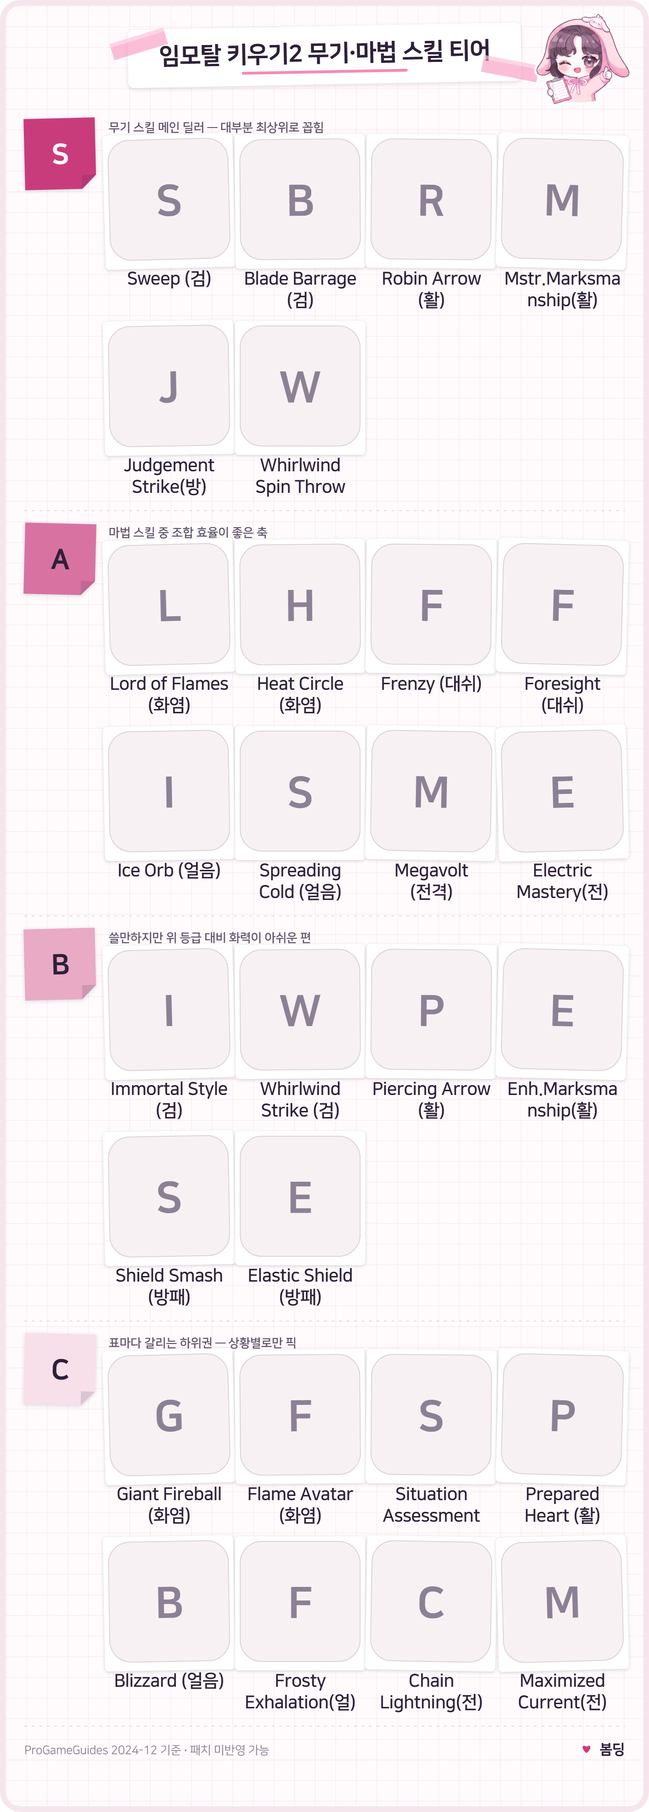
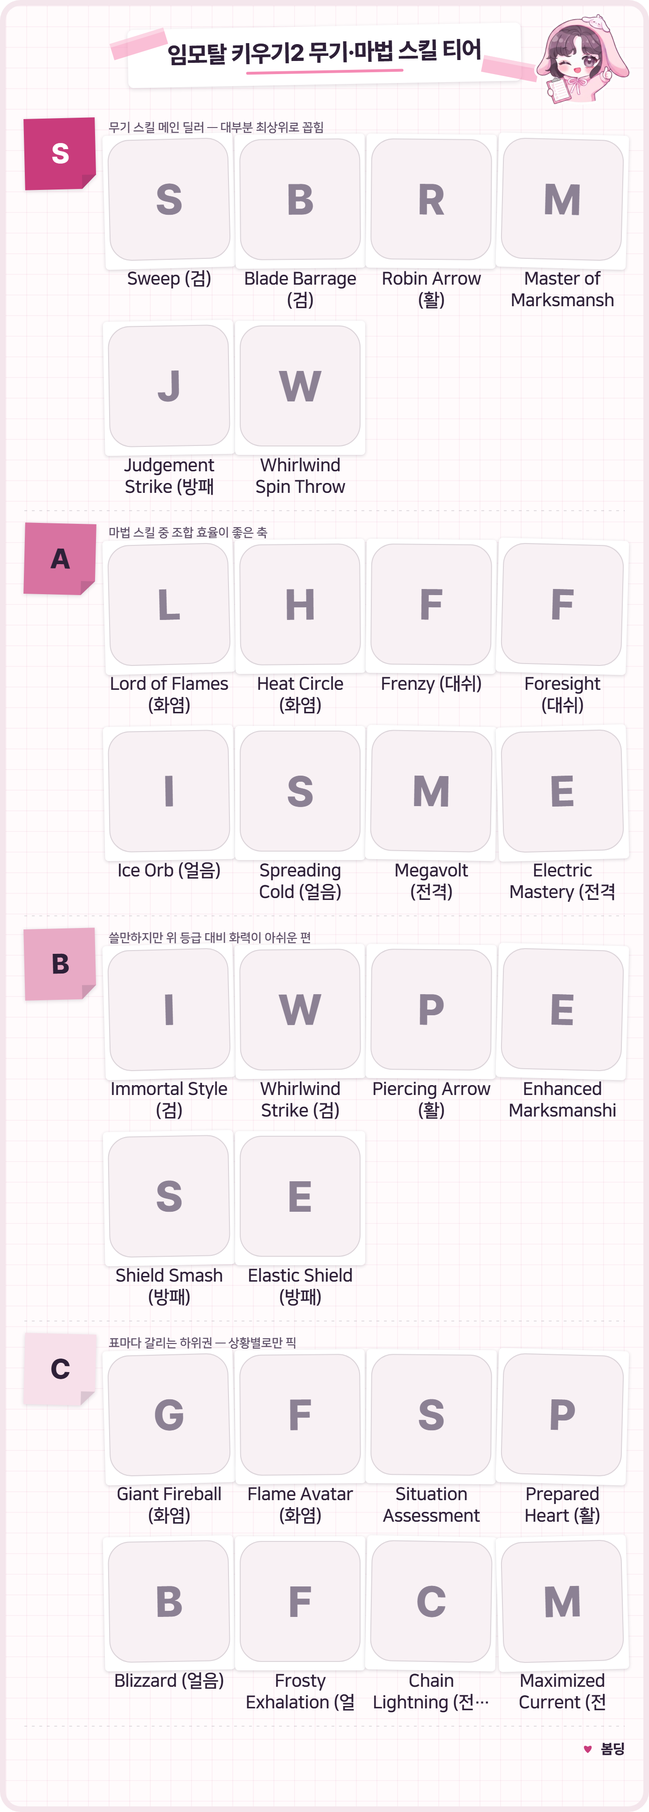
W0 AI 티 문구 치환(10-02 검토 반영): 모바일RPG자동사냥게임 임모탈키우기2 티어정리 무기 스킬 부적 순위, 초반 추천

diff --git a/봄딩/임모탈 키우기2/티어 정리/봄딩_미리보기_임모탈 키우기2 티어 정리.html b/봄딩/임모탈 키우기2/티어 정리/봄딩_미리보기_임모탈 키우기2 티어 정리.html
@@ -75,21 +75,11 @@
     <h1 class="title">모바일RPG자동사냥게임 임모탈키우기2 티어정리 무기 스킬 부적 순위, 초반 추천세팅까지</h1>
     <div class="meta"><span class="author">봄딩</span><span>2026.09.27</span><span>· 게임</span></div>
 
-    <p>예전에 스토리 한 번 쭉 밀고 잠깐 손 놓았던 <b>임모탈 키우기2(이모탈 라이징 2)</b>를 최근에 다시 켜봤는데요, 2025년 8월 신규 서버 오픈 이후로도 2026년 8월까지 매달 업데이트가 꾸준히 올라왔어요. 그래서 오늘은 무기·스킬·부적(유물) 등급까지 한번에 정리해보려고 하는데, 검색하다 보면 옛날 정보나 다른 시리즈 정보가 섞여서 나올 때가 있어서 이번 글은 정식 출시된 2편 기준으로만 걸러서 담았어요.</p>
-    <p><b>결론부터 말씀드리면, 무기는 활 계열이 잡몹전이랑 보스전 모두 강세라는 얘기가 제일 많고, 스킬은 검·활·방패 쪽 S급 위주로 트리를 짜는 게 초반 효율이 좋다고 봐요.</b> 다만 이 게임은 2026년 8월까지 매달 패치가 도는 라이브 서비스라 <b>티어가 한 번 굳으면 끝이 아니라 계속 흔들리는 편</b>이라, 아래 등급표는 "지금 기준으로 참고만" 하시는 게 맞아요.</p>
+    <p>임모탈 키우기2(이모탈 라이징 2), 다시 해볼까 고민하시는 분들 많으시죠? 2025년 8월 신규 서버 오픈 이후로도 2026년 8월까지 매달 업데이트가 꾸준히 올라왔어요. 그래서 오늘은 무기·스킬·부적(유물) 등급까지 한번에 정리해보려고 하는데, 검색하면 1편 정보가 섞여 나와서 헷갈리기 쉬운데, 이 글은 전부 2편 얘기예요.</p>
+    <p><b>결론부터 말씀드리면, 무기는 활 계열이 잡몹전이랑 보스전 모두 강세라는 얘기가 제일 많고, 스킬은 검·활·방패 쪽 S급 위주로 트리를 짜는 게 초반 효율이 좋다고 봐요.</b> 다만 이 게임은 패치가 자주 올라오는 라이브 서비스라 <b>티어가 한 번 굳으면 끝이 아니라 계속 흔들리는 편</b>이라, 아래 등급표는 "지금 기준으로 참고만" 하시는 게 맞아요.</p>
 
-    <h2 class="sub">임모탈 키우기2 티어, 뭘 기준으로 나눴을까요</h2>
-    <p><b>이 글의 등급은 해외 공략 사이트의 스킬 분석 자료와 국내 이용자들이 남긴 실사용 후기를 교차로 참고해서 나눈 거예요.</b> 이 자료는 이렇게 확인했어요 — 해외 쪽은 ProGameGuides의 Best Skills Tier List, 국내 쪽은 네이버 공식 라운지 이용자 글을 봤어요. 공식적으로 발표된 등급표는 아니고, 게임 자체가 무기 4종에 마법 4종을 섞어 "1,000만 개 이상의 조합"이 나온다고 홍보할 만큼 경우의 수가 워낙 많다 보니, 커뮤니티마다 순위가 살짝씩 갈리는 편인데요. 제가 참고한 ProGameGuides 자료는 지금 기준으로는 <b>약 1년 9개월 전(2024년 12월)</b>에 나온 자료라, 그사이 공식 라운지 공지만 봐도 업데이트가 여러 차례 있었으니 일부는 지금이랑 다를 수 있어요. 그래서 아래 등급은 "무조건 이대로 가라"보다는 "고민될 때 참고하는 기준선" 정도로 봐주시면 좋겠어요.</p>
-
-    <h2 class="sub">무기는 뭐가 제일 쓸 만할까요</h2>
-    <p><b>무기는 활이 잡몹전이랑 보스전 모두에서 꾸준히 강하다는 평이 제일 많아요.</b> 임모탈 키우기2는 공식 한국어 사이트 기준으로 무기 4종을 지원하는데,</p>
-    <ul>
-      <li>한손검</li>
-      <li>활</li>
-      <li>방패</li>
-      <li>창</li>
-    </ul>
-    <p>이렇게 네 종류예요. 다만 영문 공식 문서 쪽에는 창이 빠지고 검·활·방패 3종만 나와 있어서, 창이 나중에 추가된 무기인지 지역마다 표기가 다른 건지는 저도 확실하게는 못 찾았어요. 활은 전격(Lightning) 속성으로 세팅하면 공격력을 최우선으로 밀고 그다음 무기스킬피해·치명타피해를 챙기는 조합이 2025년 초 해외 커뮤니티 기준으로 많이 언급됐어요. 검 쪽에서는 전격+얼음 조합 얘기도 있었어요.</p>
+            <h2 class="sub">무기는 뭐가 제일 쓸 만할까요</h2>
+    <p><b>무기는 활이 잡몹전이랑 보스전 모두에서 꾸준히 강하다는 평이 제일 많아요.</b> 임모탈 키우기2 무기는 한손검, 활, 방패, 창 이렇게 네 종류예요. 활은 전격(Lightning) 속성으로 맞추고 공격력 → 무기스킬피해 → 치명타피해 순으로 챙기는 세팅이 해외 유저들 사이에서 한동안 많이 쓰였어요. 검 쪽에서는 전격+얼음 조합 얘기도 있었어요.</p>
     <!-- 이미지 이유: 무기 다양성(창) 실물 확인용 / 출처: 구글플레이 스토어 / 분류: A형 -->
     <div class="imgwrap"><img src="img/weapon-spear.webp" alt="창을 든 불멸자 전투 장면" width="1052" height="592"></div>
     <p class="cap">한손검·활·방패·창, 4종 무기 중 창을 든 전투 장면이에요</p>
@@ -100,32 +90,31 @@
     <!-- 이미지 이유: 장비 종류·레벨 UI 실물 확인용 / 출처: 구글플레이 스토어 / 분류: A형 -->
 
     <h2 class="sub">스킬 등급표, S부터 C까지 정리해봤어요</h2>
-    <p><b>무기 스킬이 마법 스킬보다 전반적으로 강하다는 게 이번 등급표의 핵심이에요.</b> 스킬트리 자체가 워낙 방대해서 전부 외우긴 어렵지만, 검·활·방패의 주력 스킬 위주로 먼저 찍고 마법은 보조로 곁들이는 흐름이 초반엔 무난해요. 아래 표는 해외 공략 자료 기준이라 한국어 인게임 표기랑 정확히 안 맞을 수 있어서 영문명 기준으로 정리했어요.</p>
+<p>등급은 해외 공략 사이트 평가랑 국내 유저들 후기에서 많이 나오는 얘기를 모아서 나눠봤어요. 게임 자체가 무기 4종에 마법 4종을 섞어 "1,000만 개 이상의 조합"이 나온다고 홍보할 만큼 경우의 수가 워낙 많다 보니, 커뮤니티마다 순위가 살짝씩 갈리는 편이에요.</p>
+    <p><b>무기 스킬이 마법 스킬보다 전반적으로 강하다는 게 이번 등급표의 핵심이에요.</b> 스킬트리 자체가 워낙 방대해서 전부 외우긴 어렵지만, 검·활·방패의 주력 스킬 위주로 먼저 찍고 마법은 보조로 곁들이는 흐름이 초반엔 무난해요. 아래 표는 해외 공략 사이트 등급표라 스킬 이름이 영어로 적혀 있어요.</p>
     <div class="imgwrap"><img src="img/skilltree.webp" alt="SS등급 대쉬 스킬트리 화면" width="1052" height="592"></div>
     <p class="cap">다양한 조합으로 최강의 스킬트리를 만들 수 있어요. 화면엔 SS등급 '대쉬' 스킬이 장착돼 있네요.</p>
     <p class="src">이미지 출처: <a href="https://play.google.com/store/apps/details?id=com.badbeans.immortalrising2k" target="_blank">구글플레이 스토어(공식 스크린샷)</a></p>
     <!-- 이미지 이유: 1,000만 조합 스킬트리 실물 확인용 / 출처: 구글플레이 스토어 / 분류: A형 -->
     <div class="imgwrap"><img src="img/skill-tier.png" alt="임모탈 키우기2 무기·마법 스킬 S~C 등급 정리" width="1386" height="3864"></div>
-    <p class="cap">무기·마법 스킬 S~C 등급 정리 (ProGameGuides 2024.12 자료 기준 · 작성 시점 스냅샷). 표의 약칭은 Mstr.=Master of, Enh.=Enhanced 이고, Whirlwind Spin Throw는 방패·Situation Assessment는 활 스킬이에요.</p>
+    <p class="cap">무기·마법 스킬 S~C 등급 정리</p>
     <!-- 이미지 이유: 등급별 실제 스킬 목록 제공 / 출처: 자체 제작(도구함 티어표) / 분류: 자체제작 -->
 
     <h2 class="sub">부적(유물)은 등급이 어떻게 나뉘나요</h2>
-    <p><b>'유물'이 상위 분류고, 그 안에 부적이라는 이름이 붙는 개별 아이템이 있는 구조예요. 등급은 최소 B·S·SS 세 단계로 확인되는데, 이건 커뮤니티 글 기준으로 확인한 거예요.</b> 네이버 공식 라운지 공지에서도 "맹공의 부적"이나 "불멸의 부적"처럼 SS 등급 유물이 2025년 7~8월 공지에서 판매 상품으로 올라온 걸 확인했어요, 이용자들 사이에서는 강화 단위가 B·S급은 '성', SS급은 '강'으로 다르게 불리기도 하거든요. 다만 B급보다 아래 등급이 있는지, SS 위에 더 높은 등급이 있는지는 이번 조사로는 끝까지 확인이 안 됐어요.</p>
-    <div class="gap"><b>✍ 직접 조사·입력 필요</b> — 부적(유물) 스탯 우선순위(생명력·공격력 부적의 옵션 우선순위)와 등급 전체 스펙트럼(B급 아래·SS급 위 등급 존재 여부)<br>
-    확인 위치: 인게임 '유물' 메뉴 강화 화면 또는 관련 공략 커뮤니티 원문 · 확인되면 아래에 채워주세요.</div>
-    <div class="ss"><span class="ico">📷</span><span class="lbl">스샷: 유물(부적) 강화·합성 메뉴 화면 — 등급 B/S/SS 표기가 한 화면에 보이는 목록 뷰</span></div>
+    <p><b>'유물'이 상위 분류고, 그 안에 부적이라는 이름이 붙는 개별 아이템이 있는 구조예요. 등급은 지금까지 알려진 게 B·S·SS 세 단계예요.</b> '맹공의 부적'·'불멸의 부적' 같은 SS 등급 유물은 2025년 7~8월에 상점 판매 상품으로도 나왔었어요. 이용자들 사이에서는 강화 단위가 B·S급은 '성', SS급은 '강'으로 다르게 불리기도 하거든요. B급 아래나 SS 위 등급이 더 있는지는 아직 확실하지 않아요.</p>
+        <div class="ss"><span class="ico">📷</span><span class="lbl">스샷: 유물(부적) 강화·합성 메뉴 화면 — 등급 B/S/SS 표기가 한 화면에 보이는 목록 뷰</span></div>
     <div class="shoot">📸 직접 촬영 권장 — 인게임 '유물'(또는 '부적') 메뉴에 들어가 등급별 목록이 한 화면에 담기는 시점에 캡처해주세요.</div>
     <p class="cap">이 섹션의 부적 등급 체계(B/S/SS)를 실제 화면으로 뒷받침할 자리예요</p>
 
     <h2 class="sub">각성하면 뭐가 달라지나요</h2>
-    <p><b>각성은 '불멸자 성장' 화면에서 진행하는 승급 시스템으로, SS에서 SSS처럼 등급이 한 단계씩 올라가요.</b> 실제로 각성에 성공하면 공격력·체력 같은 스탯이 눈에 띄게 올라가는 걸 화면으로 확인했는데, 정확히 어떤 재료가 몇 개 필요한지 세부 조건까지는 확대해봐도 글자가 작아서 이번엔 다 읽지 못했어요. 성장·장비·각성 탭이 따로 나뉘어 있는 걸 보면 장비 강화나 캐릭터 성장이랑도 맞물려 있는 구조로 보이니, 한쪽만 붙잡지 말고 골고루 챙기시는 게 좋아요.</p>
+    <p><b>각성은 '불멸자 성장' 화면에서 진행하는 승급 시스템으로, SS에서 SSS처럼 등급이 한 단계씩 올라가요.</b> 각성에 성공하면 공격력·체력 같은 스탯이 눈에 띄게 오르는데, 필요한 재료나 개수 같은 세부 조건은 게임 안 각성 화면에서 한 번 확인해 보시는 게 좋아요. 성장·장비·각성 탭이 따로 나뉘어 있는 걸 보면 장비 강화나 캐릭터 성장이랑도 맞물려 있는 구조로 보이니, 한쪽만 붙잡지 말고 골고루 챙기시는 게 좋아요.</p>
     <!-- 이미지 이유: 진화(각성) 시스템의 실제 등급 승급 장면 / 출처: 구글플레이 스토어 / 분류: A형 -->
     <div class="imgwrap"><img src="img/awakening.webp" alt="불멸자 성장 화면과 각성 성공 SS to SSS 승급 다이얼로그" width="1052" height="592"></div>
     <p class="cap">각성 성공! SS등급에서 SSS등급으로 승급하는 실제 화면이에요</p>
     <p class="src">이미지 출처: <a href="https://play.google.com/store/apps/details?id=com.badbeans.immortalrising2k" target="_blank">구글플레이 스토어(공식 스크린샷)</a></p>
 
     <h2 class="sub">처음 시작한다면 이렇게 세팅해보세요</h2>
-    <p><b>초반엔 무료로 주는 장비 소환권(해외 가이드 기준)부터 뽑고, 그 무기를 집중 강화하는 게 제일 빠른 지름길이에요.</b> 처음 시작한다면 이 네 가지만 챙겨도 충분해요.</p>
+    <p><b>초반엔 무료로 주는 장비 소환권이 있으면 그것부터 뽑고, 나온 무기를 집중 강화하는 게 제일 빠른 지름길이에요.</b> 처음 시작한다면 이 네 가지만 챙겨도 충분해요.</p>
     <ul>
       <li>무료로 받는 장비 소환권부터 뽑고, 나온 무기를 집중 강화하기</li>
       <li>스킬은 범위 광역기, 그중에서도 멀티샷 계열 무기 스킬 위주로 육성하기</li>
@@ -138,20 +127,21 @@
     <!-- 이미지 이유: 초반~중반 성장 곡선을 보여주는 대표 전투컷 / 출처: 구글플레이 스토어 / 분류: A형 -->
 
     <h2 class="sub">과금 안 해도 즐길 수 있을까요</h2>
-    <p><b>무과금으로도 진행 자체는 가능하지만, 성장 속도 차이는 있는 편이에요.</b> 2025년 7~8월 공지에서 SS 등급 유물이 유상 판매 상품으로 올라온 걸 확인했어요(가격·통화 표기는 공지 본문을 열 수 없어서 그대로 옮기지는 않았어요). 정확한 결제 금액이나 확률형 아이템 공식 확률 표기가 어떻게 되어 있는지는 이번 조사로는 다 확인하지 못했어요. 과금을 고민 중이시라면 상점 페이지에서 확률 공지를 직접 한 번 확인해보시는 게 좋아요.</p>
+    <p><b>무과금으로도 진행 자체는 가능하지만, 성장 속도 차이는 있는 편이에요.</b> SS 등급 유물은 2025년 7~8월에 유료 상품으로 판매된 적도 있어요. 과금을 고민 중이시라면 상점 페이지에서 확률 공지를 직접 한 번 확인해보시는 게 좋아요.</p>
 
     <h2 class="sub">자주 묻는 질문</h2>
     <p><b>Q. 임모탈 키우기2랑 임모탈 키우기(1편)는 다른 게임인가요?</b><br>네, 서로 다른 게임이에요. 2편은 2024년 9월에 출시된(올해로 2주년) 완전 3D 방치형 액션RPG라 그래픽부터 시스템까지 전작이랑 많이 달라졌고, 검색하다 보면 옛날 1편 정보가 섞여 나올 때가 있으니 헷갈리지 않게 조심하시는 게 좋아요.</p>
-    <p><b>Q. 창(스피어) 무기, 진짜 있는 거 맞아요?</b><br>한국어 공식 사이트에는 한손검·활·방패·창 4종이 소개돼 있는데, 영문 공식 문서에는 창이 빠져 있네요. 지역별 표기 차이인지 추가 무기인지는 아직 명확하지 않아서, 인게임 무기 목록에서 직접 확인해보시는 게 확실해요.</p>
+    <p><b>Q. 창(스피어) 무기, 진짜 있는 거 맞아요?</b><br>네, 있어요. 한국어 공식 사이트에 한손검·활·방패·창 4종으로 소개돼 있어요.</p>
     <p><b>Q. 부적이랑 유물, 같은 건가요?</b><br>같은 계열이긴 한데, 정확히는… '유물'이 큰 카테고리고, 그 아래 낱개 아이템에 '맹공의 부적'·'불멸의 부적'처럼 부적이라는 이름이 붙는 방식이에요.</p>
     <p><b>Q. 무과금으로도 재밌게 할 만한가요?</b><br>진행 자체는 무과금으로도 가능하지만, 성장 속도 차이에 대한 불만 글도 있더라고요. 유물 뽑기나 강화 재화는 과금하면 확실히 더 빨라지는 구조라, 급하게 안 몰아붙이고 천천히 키운다는 마음으로 접근하시면 스트레스가 덜해요.</p>
-    <p><b>Q. 여기 나온 등급표, 지금도 그대로 믿어도 돼요?</b><br>패치가 잦은 게임이다 보니 세부 순위는 흔들릴 수 있는데, 제가 참고한 자료가 2024년 12월~2025년 초 것이라 지금 밸런스와는 다를 수 있어요. 그래도 안심하지 마시고 공식 라운지 업데이트 공지를 한 번씩 같이 확인해보시는 게 좋답니다.</p>
+    <p><b>Q. 여기 나온 등급표, 지금도 그대로 믿어도 돼요?</b><br>패치가 잦은 게임이다 보니 세부 순위는 흔들릴 수 있는데, 등급표가 나온 지 꽤 돼서 지금 밸런스와는 다른 부분도 있을 거예요. 그래도 안심하지 마시고 공식 라운지 업데이트 공지를 한 번씩 같이 확인해보시는 게 좋답니다.</p>
 
     <p>오늘은 임모탈 키우기2(이모탈 라이징 2)의 무기·스킬·부적 등급이랑 초반 세팅까지 한번에 정리해봤는데요, 게임 자체가 조합의 폭이 워낙 넓어서 여기 나온 건 하나의 참고 기준으로만 봐주시고 본인 플레이 스타일에 맞게 골라가시는 게 제일 좋습니다. 매달 패치가 도는 게임이라 저도 다음에 달라진 점이 있으면 다시 들고 올게요.</p>
 
     <p><b>참고한 곳</b><br>
     · <a href="https://immortalrising2.kr/" target="_blank">임모탈 키우기2 공식 한국어 사이트</a><br>
-    · <a href="https://game.naver.com/lounge/Immortal_Rising2/home" target="_blank">네이버 게임 라운지 - 임모탈 키우기 2</a></p>
+    · <a href="https://game.naver.com/lounge/Immortal_Rising2/home" target="_blank">네이버 게임 라운지 - 임모탈 키우기 2</a><br>
+· <a href="https://progameguides.com/guides/immortal-rising-2-best-skills-tier-list/" target="_blank">ProGameGuides - Immortal Rising 2 Best Skills Tier List</a></p>
 
     <p><b>✔ 임모탈 키우기2 같이 보기 좋은 내용</b><br>
     · <a href="https://blog.naver.com/bomding/223985780125" target="_blank">모바일RPG자동사냥게임 임모탈키우기2 공략 신규 서버 복귀각! 1주년 업데이트까지?</a></p>
@@ -182,29 +172,25 @@
     <p class="np-lbl">↓ 초록 점선 안쪽이 네이버로 들어갈 본문입니다 (자리표시 파란 글씨는 네이버에서 채우기)</p>
     <div id="copy">
 <h3>모바일RPG자동사냥게임 임모탈키우기2 티어정리 무기 스킬 부적 순위, 초반 추천세팅까지</h3>
-<p>예전에 스토리 한 번 쭉 밀고 잠깐 손 놓았던 <b>임모탈 키우기2(이모탈 라이징 2)</b>를 최근에 다시 켜봤는데요, 2025년 8월 신규 서버 오픈 이후로도 2026년 8월까지 매달 업데이트가 꾸준히 올라왔어요. 그래서 오늘은 무기·스킬·부적(유물) 등급까지 한번에 정리해보려고 하는데, 검색하다 보면 옛날 정보나 다른 시리즈 정보가 섞여서 나올 때가 있어서 이번 글은 정식 출시된 2편 기준으로만 걸러서 담았어요.</p>
-<p><b>결론부터 말씀드리면, 무기는 활 계열이 잡몹전이랑 보스전 모두 강세라는 얘기가 제일 많고, 스킬은 검·활·방패 쪽 S급 위주로 트리를 짜는 게 초반 효율이 좋다고 봐요.</b> 다만 이 게임은 2026년 8월까지 매달 패치가 도는 라이브 서비스라 <b>티어가 한 번 굳으면 끝이 아니라 계속 흔들리는 편</b>이라, 아래 등급표는 "지금 기준으로 참고만" 하시는 게 맞아요.</p>
-<h3>임모탈 키우기2 티어, 뭘 기준으로 나눴을까요</h3>
-<p><b>이 글의 등급은 해외 공략 사이트의 스킬 분석 자료와 국내 이용자들이 남긴 실사용 후기를 교차로 참고해서 나눈 거예요.</b> 이 자료는 이렇게 확인했어요 — 해외 쪽은 ProGameGuides의 Best Skills Tier List, 국내 쪽은 네이버 공식 라운지 이용자 글을 봤어요. 공식적으로 발표된 등급표는 아니고, 게임 자체가 무기 4종에 마법 4종을 섞어 "1,000만 개 이상의 조합"이 나온다고 홍보할 만큼 경우의 수가 워낙 많다 보니, 커뮤니티마다 순위가 살짝씩 갈리는 편인데요. 제가 참고한 ProGameGuides 자료는 지금 기준으로는 <b>약 1년 9개월 전(2024년 12월)</b>에 나온 자료라, 그사이 공식 라운지 공지만 봐도 업데이트가 여러 차례 있었으니 일부는 지금이랑 다를 수 있어요. 그래서 아래 등급은 "무조건 이대로 가라"보다는 "고민될 때 참고하는 기준선" 정도로 봐주시면 좋겠어요.</p>
+<p>임모탈 키우기2(이모탈 라이징 2), 다시 해볼까 고민하시는 분들 많으시죠? 2025년 8월 신규 서버 오픈 이후로도 2026년 8월까지 매달 업데이트가 꾸준히 올라왔어요. 그래서 오늘은 무기·스킬·부적(유물) 등급까지 한번에 정리해보려고 하는데, 검색하면 1편 정보가 섞여 나와서 헷갈리기 쉬운데, 이 글은 전부 2편 얘기예요.</p>
+<p><b>결론부터 말씀드리면, 무기는 활 계열이 잡몹전이랑 보스전 모두 강세라는 얘기가 제일 많고, 스킬은 검·활·방패 쪽 S급 위주로 트리를 짜는 게 초반 효율이 좋다고 봐요.</b> 다만 이 게임은 패치가 자주 올라오는 라이브 서비스라 <b>티어가 한 번 굳으면 끝이 아니라 계속 흔들리는 편</b>이라, 아래 등급표는 "지금 기준으로 참고만" 하시는 게 맞아요.</p>
 <h3>무기는 뭐가 제일 쓸 만할까요</h3>
-<p><b>무기는 활이 잡몹전이랑 보스전 모두에서 꾸준히 강하다는 평이 제일 많아요.</b> 임모탈 키우기2는 공식 한국어 사이트 기준으로 무기 4종을 지원하는데,</p>
-<ul><li>한손검</li><li>활</li><li>방패</li><li>창</li></ul>
-<p>이렇게 네 종류예요. 다만 영문 공식 문서 쪽에는 창이 빠지고 검·활·방패 3종만 나와 있어서, 창이 나중에 추가된 무기인지 지역마다 표기가 다른 건지는 저도 확실하게는 못 찾았어요. 활은 전격(Lightning) 속성으로 세팅하면 공격력을 최우선으로 밀고 그다음 무기스킬피해·치명타피해를 챙기는 조합이 2025년 초 해외 커뮤니티 기준으로 많이 언급됐어요. 검 쪽에서는 전격+얼음 조합 얘기도 있었어요.</p>
+<p><b>무기는 활이 잡몹전이랑 보스전 모두에서 꾸준히 강하다는 평이 제일 많아요.</b> 임모탈 키우기2 무기는 한손검, 활, 방패, 창 이렇게 네 종류예요. 활은 전격(Lightning) 속성으로 맞추고 공격력 → 무기스킬피해 → 치명타피해 순으로 챙기는 세팅이 해외 유저들 사이에서 한동안 많이 쓰였어요. 검 쪽에서는 전격+얼음 조합 얘기도 있었어요.</p>
 <p>📷 〔사진 자리 1〕 창을 든 불멸자 전투 장면 — 네이버에서 직접 업로드<br>└ 캡션 추천: "한손검·활·방패·창, 4종 무기 중 창을 든 전투 장면이에요"</p>
 <p>📷 〔사진 자리 2〕 '시련의 틈' 던전과 장비 슬롯 화면 — 네이버에서 직접 업로드<br>└ 캡션 추천: "장비 슬롯(Lv.90)이 보여요"</p>
 <h3>스킬 등급표, S부터 C까지 정리해봤어요</h3>
-<p><b>무기 스킬이 마법 스킬보다 전반적으로 강하다는 게 이번 등급표의 핵심이에요.</b> 스킬트리 자체가 워낙 방대해서 전부 외우긴 어렵지만, 검·활·방패의 주력 스킬 위주로 먼저 찍고 마법은 보조로 곁들이는 흐름이 초반엔 무난해요. 아래 표는 해외 공략 자료 기준이라 한국어 인게임 표기랑 정확히 안 맞을 수 있어서 영문명 기준으로 정리했어요.</p>
+<p>등급은 해외 공략 사이트 평가랑 국내 유저들 후기에서 많이 나오는 얘기를 모아서 나눠봤어요. 게임 자체가 무기 4종에 마법 4종을 섞어 "1,000만 개 이상의 조합"이 나온다고 홍보할 만큼 경우의 수가 워낙 많다 보니, 커뮤니티마다 순위가 살짝씩 갈리는 편이에요.</p>
+<p><b>무기 스킬이 마법 스킬보다 전반적으로 강하다는 게 이번 등급표의 핵심이에요.</b> 스킬트리 자체가 워낙 방대해서 전부 외우긴 어렵지만, 검·활·방패의 주력 스킬 위주로 먼저 찍고 마법은 보조로 곁들이는 흐름이 초반엔 무난해요. 아래 표는 해외 공략 사이트 등급표라 스킬 이름이 영어로 적혀 있어요.</p>
 <p>📷 〔사진 자리 3〕 SS등급 대쉬 스킬트리 화면 — 네이버에서 직접 업로드<br>└ 캡션 추천: "다양한 조합으로 최강의 스킬트리를 만들 수 있어요. 화면엔 SS등급 '대쉬' 스킬이 장착돼 있네요."</p>
-<p>📷 〔사진 자리 4〕 무기·마법 스킬 S~C 등급 정리표 — 네이버에서 직접 업로드<br>└ 캡션 추천: "무기·마법 스킬 S~C 등급 정리(ProGameGuides 2024.12 자료 기준 · 작성 시점 스냅샷). 표의 약칭은 Mstr.=Master of, Enh.=Enhanced 이고, Whirlwind Spin Throw는 방패·Situation Assessment는 활 스킬이에요."</p>
+<p>📷 〔사진 자리 4〕 무기·마법 스킬 S~C 등급 정리표 — 네이버에서 직접 업로드<br>└ 캡션 추천: "무기·마법 스킬 S~C 등급 정리"</p>
 <h3>부적(유물)은 등급이 어떻게 나뉘나요</h3>
-<p><b>'유물'이 상위 분류고, 그 안에 부적이라는 이름이 붙는 개별 아이템이 있는 구조예요. 등급은 최소 B·S·SS 세 단계로 확인되는데, 이건 커뮤니티 글 기준으로 확인한 거예요.</b> 네이버 공식 라운지 공지에서도 "맹공의 부적"이나 "불멸의 부적"처럼 SS 등급 유물이 2025년 7~8월 공지에서 판매 상품으로 올라온 걸 확인했어요, 이용자들 사이에서는 강화 단위가 B·S급은 '성', SS급은 '강'으로 다르게 불리기도 하거든요. 다만 B급보다 아래 등급이 있는지, SS 위에 더 높은 등급이 있는지는 이번 조사로는 끝까지 확인이 안 됐어요.</p>
-<p>✍ 직접 조사·입력 필요 — 부적(유물) 스탯 우선순위(생명력·공격력 부적의 옵션 우선순위)와 등급 전체 스펙트럼(B급 아래·SS급 위 등급 존재 여부). 확인 위치: 인게임 '유물' 메뉴 강화 화면 또는 관련 공략 커뮤니티 원문 · 확인되면 채워주세요.</p>
+<p><b>'유물'이 상위 분류고, 그 안에 부적이라는 이름이 붙는 개별 아이템이 있는 구조예요. 등급은 지금까지 알려진 게 B·S·SS 세 단계예요.</b> '맹공의 부적'·'불멸의 부적' 같은 SS 등급 유물은 2025년 7~8월에 상점 판매 상품으로도 나왔었어요. 이용자들 사이에서는 강화 단위가 B·S급은 '성', SS급은 '강'으로 다르게 불리기도 하거든요. B급 아래나 SS 위 등급이 더 있는지는 아직 확실하지 않아요.</p>
 <p>📷 〔사진 자리 5〕 유물(부적) 강화·합성 메뉴 화면(등급 B/S/SS가 보이는 목록 뷰) — 네이버에서 직접 촬영 후 업로드</p>
 <h3>각성하면 뭐가 달라지나요</h3>
-<p><b>각성은 '불멸자 성장' 화면에서 진행하는 승급 시스템으로, SS에서 SSS처럼 등급이 한 단계씩 올라가요.</b> 실제로 각성에 성공하면 공격력·체력 같은 스탯이 눈에 띄게 올라가는 걸 화면으로 확인했는데, 정확히 어떤 재료가 몇 개 필요한지 세부 조건까지는 확대해봐도 글자가 작아서 이번엔 다 읽지 못했어요. 성장·장비·각성 탭이 따로 나뉘어 있는 걸 보면 장비 강화나 캐릭터 성장이랑도 맞물려 있는 구조로 보이니, 한쪽만 붙잡지 말고 골고루 챙기시는 게 좋아요.</p>
+<p><b>각성은 '불멸자 성장' 화면에서 진행하는 승급 시스템으로, SS에서 SSS처럼 등급이 한 단계씩 올라가요.</b> 각성에 성공하면 공격력·체력 같은 스탯이 눈에 띄게 오르는데, 필요한 재료나 개수 같은 세부 조건은 게임 안 각성 화면에서 한 번 확인해 보시는 게 좋아요. 성장·장비·각성 탭이 따로 나뉘어 있는 걸 보면 장비 강화나 캐릭터 성장이랑도 맞물려 있는 구조로 보이니, 한쪽만 붙잡지 말고 골고루 챙기시는 게 좋아요.</p>
 <p>📷 〔사진 자리 6〕 각성 성공! SS등급에서 SSS등급으로 승급하는 화면 — 네이버에서 직접 업로드</p>
 <h3>처음 시작한다면 이렇게 세팅해보세요</h3>
-<p><b>초반엔 무료로 주는 장비 소환권(해외 가이드 기준)부터 뽑고, 그 무기를 집중 강화하는 게 제일 빠른 지름길이에요.</b> 처음 시작한다면 이 네 가지만 챙겨도 충분해요.</p>
+<p><b>초반엔 무료로 주는 장비 소환권이 있으면 그것부터 뽑고, 나온 무기를 집중 강화하는 게 제일 빠른 지름길이에요.</b> 처음 시작한다면 이 네 가지만 챙겨도 충분해요.</p>
     <ul>
       <li>무료로 받는 장비 소환권부터 뽑고, 나온 무기를 집중 강화하기</li>
       <li>스킬은 범위 광역기, 그중에서도 멀티샷 계열 무기 스킬 위주로 육성하기</li>
@@ -213,17 +199,18 @@
     </ul>
 <p>📷 〔사진 자리 7〕 보스전 전투 화면 — 네이버에서 직접 업로드</p>
 <h3>과금 안 해도 즐길 수 있을까요</h3>
-<p><b>무과금으로도 진행 자체는 가능하지만, 성장 속도 차이는 있는 편이에요.</b> 2025년 7~8월 공지에서 SS 등급 유물이 유상 판매 상품으로 올라온 걸 확인했어요(가격·통화 표기는 공지 본문을 열 수 없어서 그대로 옮기지는 않았어요). 정확한 결제 금액이나 확률형 아이템 공식 확률 표기가 어떻게 되어 있는지는 이번 조사로는 다 확인하지 못했어요. 과금을 고민 중이시라면 상점 페이지에서 확률 공지를 직접 한 번 확인해보시는 게 좋아요.</p>
+<p><b>무과금으로도 진행 자체는 가능하지만, 성장 속도 차이는 있는 편이에요.</b> SS 등급 유물은 2025년 7~8월에 유료 상품으로 판매된 적도 있어요. 과금을 고민 중이시라면 상점 페이지에서 확률 공지를 직접 한 번 확인해보시는 게 좋아요.</p>
 <h3>자주 묻는 질문</h3>
 <p><b>Q. 임모탈 키우기2랑 임모탈 키우기(1편)는 다른 게임인가요?</b><br>네, 서로 다른 게임이에요. 2편은 2024년 9월에 출시된(올해로 2주년) 완전 3D 방치형 액션RPG라 그래픽부터 시스템까지 전작이랑 많이 달라졌고, 검색하다 보면 옛날 1편 정보가 섞여 나올 때가 있으니 헷갈리지 않게 조심하시는 게 좋아요.</p>
-<p><b>Q. 창(스피어) 무기, 진짜 있는 거 맞아요?</b><br>한국어 공식 사이트에는 한손검·활·방패·창 4종이 소개돼 있는데, 영문 공식 문서에는 창이 빠져 있네요. 지역별 표기 차이인지 추가 무기인지는 아직 명확하지 않아서, 인게임 무기 목록에서 직접 확인해보시는 게 확실해요.</p>
+<p><b>Q. 창(스피어) 무기, 진짜 있는 거 맞아요?</b><br>네, 있어요. 한국어 공식 사이트에 한손검·활·방패·창 4종으로 소개돼 있어요.</p>
 <p><b>Q. 부적이랑 유물, 같은 건가요?</b><br>같은 계열이긴 한데, 정확히는… '유물'이 큰 카테고리고, 그 아래 낱개 아이템에 '맹공의 부적'·'불멸의 부적'처럼 부적이라는 이름이 붙는 방식이에요.</p>
 <p><b>Q. 무과금으로도 재밌게 할 만한가요?</b><br>진행 자체는 무과금으로도 가능하지만, 성장 속도 차이에 대한 불만 글도 있더라고요. 유물 뽑기나 강화 재화는 과금하면 확실히 더 빨라지는 구조라, 급하게 안 몰아붙이고 천천히 키운다는 마음으로 접근하시면 스트레스가 덜해요.</p>
-<p><b>Q. 여기 나온 등급표, 지금도 그대로 믿어도 돼요?</b><br>패치가 잦은 게임이다 보니 세부 순위는 흔들릴 수 있는데, 제가 참고한 자료가 2024년 12월~2025년 초 것이라 지금 밸런스와는 다를 수 있어요. 그래도 안심하지 마시고 공식 라운지 업데이트 공지를 한 번씩 같이 확인해보시는 게 좋답니다.</p>
+<p><b>Q. 여기 나온 등급표, 지금도 그대로 믿어도 돼요?</b><br>패치가 잦은 게임이다 보니 세부 순위는 흔들릴 수 있는데, 등급표가 나온 지 꽤 돼서 지금 밸런스와는 다른 부분도 있을 거예요. 그래도 안심하지 마시고 공식 라운지 업데이트 공지를 한 번씩 같이 확인해보시는 게 좋답니다.</p>
 <p>오늘은 임모탈 키우기2(이모탈 라이징 2)의 무기·스킬·부적 등급이랑 초반 세팅까지 한번에 정리해봤는데요, 게임 자체가 조합의 폭이 워낙 넓어서 여기 나온 건 하나의 참고 기준으로만 봐주시고 본인 플레이 스타일에 맞게 골라가시는 게 제일 좋습니다. 매달 패치가 도는 게임이라 저도 다음에 달라진 점이 있으면 다시 들고 올게요.</p>
 <p><b>참고한 곳</b><br>
 · <a href="https://immortalrising2.kr/" target="_blank">임모탈 키우기2 공식 한국어 사이트</a><br>
-· <a href="https://game.naver.com/lounge/Immortal_Rising2/home" target="_blank">네이버 게임 라운지 - 임모탈 키우기 2</a></p>
+· <a href="https://game.naver.com/lounge/Immortal_Rising2/home" target="_blank">네이버 게임 라운지 - 임모탈 키우기 2</a><br>
+· <a href="https://progameguides.com/guides/immortal-rising-2-best-skills-tier-list/" target="_blank">ProGameGuides - Immortal Rising 2 Best Skills Tier List</a></p>
 <p><b>✔ 임모탈 키우기2 같이 보기 좋은 내용</b><br>
 · <a href="https://blog.naver.com/bomding/223985780125" target="_blank">모바일RPG자동사냥게임 임모탈키우기2 공략 신규 서버 복귀각! 1주년 업데이트까지?</a></p>
 <p class="tags-line">#임모탈키우기2 #이모탈라이징2 #임모탈키우기2티어 #임모탈키우기2무기 #임모탈키우기2스킬 #임모탈키우기2부적 #모바일RPG추천</p>
